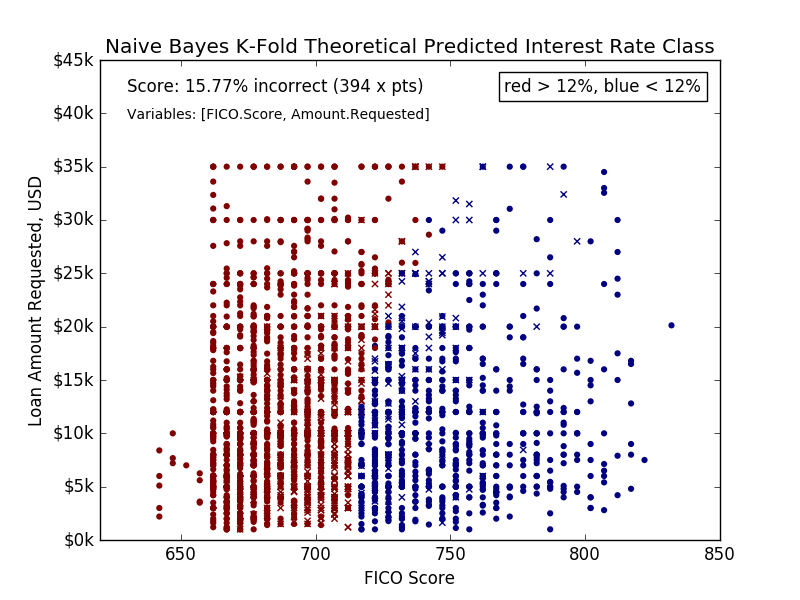
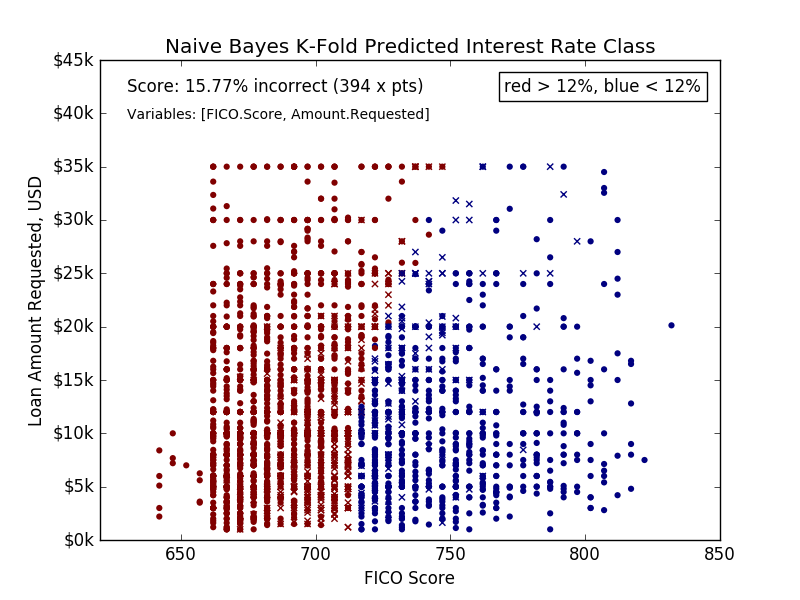
refactor plots

Changed region(s): [[0.125, 0.06, 0.9062, 0.09]]

diff --git a/naive_bayes_kfold.py b/naive_bayes_kfold.py
@@ -74,12 +74,15 @@ def make_plotdir(plotdir):
         os.mkdir(plotdir)
     return plotdir
     
-def plot_predict(label, score, indep_variables, correct, incorrect):
+def plot_predict(label, score, indep_variables, correct, incorrect, theo=False):
     '''Plot predicted (correct and incorrect) target values.'''
     plt.clf()
     plt.scatter(correct['FICO.Score'], correct['Amount.Requested'], c=correct['target'], \
          linewidths=0)
-    plt.scatter(incorrect['FICO.Score'], incorrect['Amount.Requested'], c=incorrect['target'], \
+    ctag = incorrect['target']
+    if (theo):
+        ctag = incorrect['predict']
+    plt.scatter(incorrect['FICO.Score'], incorrect['Amount.Requested'], c=ctag, \
          linewidths=1, s=20, marker='x')
     plt.xlim(620, 850)
     plt.ylim(0, 45000)
@@ -94,29 +97,12 @@ def plot_predict(label, score, indep_variables, correct, incorrect):
     plt.text(770, 42000, 'red > 12%, blue < 12%', bbox=dict(edgecolor='black', fill=False))
     txt, pos = getVarStr(indep_variables)
     plt.text(630, 38000 + 1500*(2-pos), txt, fontsize=10)
-    plt.savefig(plotdir+label+'_bayes_intrate_predict.png')
-
-def plot_theo(label, score, indep_variables, correct, incorrect):
-    '''Plot theoretical predicted (not target IR_TF) values.'''
-    plt.clf()
-    plt.scatter(correct['FICO.Score'], correct['Amount.Requested'], c=correct['target'], \
-         linewidths=0)
-    plt.scatter(incorrect['FICO.Score'], incorrect['Amount.Requested'], c=incorrect['predict'], \
-         linewidths=1, s=20, marker='x')
-    plt.xlim(620, 850)
-    plt.ylim(0, 45000)
-    locs, labels = plt.yticks()
-    plt.yticks(locs, map(lambda x: '$'+str(int(x/1000))+'k', locs))
-    plt.xlabel('FICO Score')
-    plt.ylabel('Loan Amount Requested, USD')
-    plt.title('Naive Bayes K-Fold Theoretical Predicted Interest Rate Class')
-    sc = 100 * float(score) / loans_target.shape[0]
-    txt = "Score: %.2f%% incorrect (%d x pts)" % (sc, score)
-    plt.text(630, 42000, txt)
-    plt.text(770, 42000, 'red > 12%, blue < 12%', bbox=dict(edgecolor='black', fill=False))
-    txt, pos = getVarStr(indep_variables)
-    plt.text(630, 38000 + 1500*(2-pos), txt, fontsize=10)
-    plt.savefig(plotdir+label+'_bayes_intrate_theo.png')
+    pname = plotdir+label+'_bayes_intrate_'
+    if (theo):
+        pname += 'theo'
+    else:
+        pname += 'predict'
+    plt.savefig(pname+'.png')
 
 def naive_bayes_fold(train_data, train_target, test_data):
     '''Do naive bayes on train and test data.'''
@@ -154,7 +140,7 @@ def do_naive_bayes(indep_variables, label='_label', predict_plot=False, theo_plo
         plot_predict(label, score, indep_variables, correct, incorrect)
 
     if (theo_plot):
-        plot_theo(label, score, indep_variables, correct, incorrect)
+        plot_predict(label, score, indep_variables, correct, incorrect, theo=True)
 
     return score
 
@@ -174,7 +160,6 @@ def naive_bayes_tests():
 
     indep_variables = ['FICO.Score', 'Amount.Requested', 'Home.Type', 'Loan.Length', 'Loan.Purpose.Score', 'Amount.Funded.By.Investors', 'Inquiries.in.the.Last.6.Months']
     do_naive_bayes(indep_variables, label='better')
-
 
 def random_opt(varlist, init_list):
     '''Optimize list by randomly adding variables,
